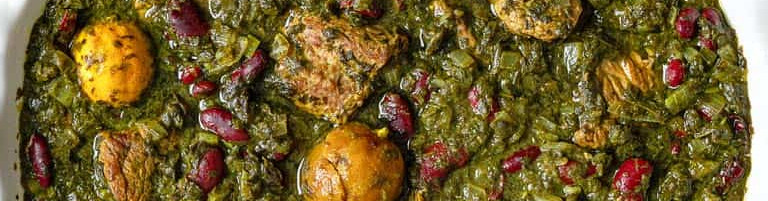
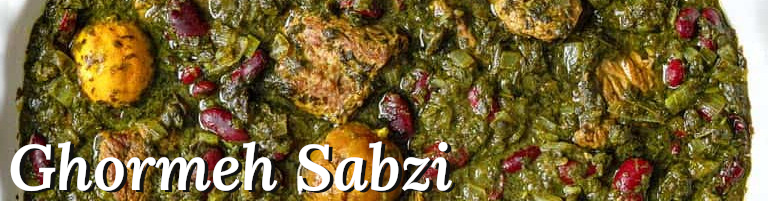
Edit recipe header image and fix typo
Add recipe title to header image and remove text title. Correct
spelling of 'Shakshuka'.

Changed region(s): [[0.0, 0.6866, 0.5938, 0.9552]]

diff --git a/recipes/tabbouleh.html b/recipes/tabbouleh.html
@@ -16,7 +16,6 @@
             <a href="../index.html"><h1>Odin's Recipes</h1></a>
         </div>
         <div class="window">
-            <h2>Tabbouleh</h2>
             <img src="Tabbouleh_wide.jpg" alt="A middle eastern dish, tabbouleh, seen from above." width="768" height="201">
             <br>
             <h3>Description</h3>
@@ -43,7 +42,7 @@
             </ol>
             <img src="Tabbouleh.jpg" alt="A middle eastern dish, tabbouleh, seen from above." width="768" height="768">
             <ul id="menu">
-                <li><a href="shaksuka.html">Shaksuka</a></li>
+                <li><a href="shakshuka.html">Shakshuka</a></li>
                 <li><a href="ghormeh-sabzi.html">Ghormeh-Sabzi</a></li>
                 <li><a href="tabbouleh.html">Tabbouleh</a></li>
             </ul>

diff --git a/recipes/ghormeh-sabzi.html b/recipes/ghormeh-sabzi.html
@@ -16,7 +16,6 @@
             <a href="../index.html"><h1>Odin's Recipes</h1></a>
         </div>
         <div class="window">
-            <h2>Ghormeh Sabzi</h2>
             <img src="Ghormeh-Sabzi_wide.jpg" alt="A middle eastern dish, ghormeh sabzi, seen from above.">
             <br>
             <h3>Description</h3>
@@ -51,7 +50,7 @@
             </ol>
             <img src="Ghormeh-Sabzi.jpg" alt="A middle eastern dish, ghormeh sabzi, seen from above." width="768" height="768">
             <ul id="menu">
-                <li><a href="shaksuka.html">Shaksuka</a></li>
+                <li><a href="shakshuka.html">Shakshuka</a></li>
                 <li><a href="ghormeh-sabzi.html">Ghormeh-Sabzi</a></li>
                 <li><a href="tabbouleh.html">Tabbouleh</a></li>
             </ul>

diff --git a/recipes/shakshuka.html b/recipes/shakshuka.html
@@ -16,7 +16,6 @@
             <a href="../index.html"><h1>Odin's Recipes</h1></a>
         </div>
         <div class="window">
-            <h2>Shakshuka</h2>
             <img src="Shakshuka_wide.jpg" alt="A middle eastern dish, shakshuka, seen from above.">
             <br>
             <h3>Description</h3>
@@ -44,7 +43,7 @@
             </ol>
             <img src="Shakshuka.jpg" alt="A middle eastern dish, shakshuka, seen from above." width="768" height="768">
             <ul id="menu">
-                <li><a href="shaksuka.html">Shaksuka</a></li>
+                <li><a href="shakshuka.html">Shakshuka</a></li>
                 <li><a href="ghormeh-sabzi.html">Ghormeh-Sabzi</a></li>
                 <li><a href="tabbouleh.html">Tabbouleh</a></li>
             </ul>

diff --git a/index.html b/index.html
@@ -17,7 +17,7 @@
         <div class="window">
             <br>
             <ul id="menu">
-                <li><a href="recipes/shaksuka.html">Shaksuka</a></li>
+                <li><a href="recipes/shakshuka.html">Shakshuka</a></li>
                 <li><a href="recipes/ghormeh-sabzi.html">Ghormeh-Sabzi</a></li>
                 <li><a href="recipes/tabbouleh.html">Tabbouleh</a></li>
             </ul>

diff --git a/styles.css b/styles.css
@@ -49,12 +49,6 @@ h1 {
     font-size: 80px;
 }
 
-h2 {
-    margin-bottom: -4px;
-    font-weight: 600;
-    font-style: italic;
-}
-
 h3 {
     margin-bottom: -16px;
     font-weight: 600;

diff --git a/README.md b/README.md
@@ -1,2 +1,6 @@
-A small collection of recipes - all of which I have not tested nor intend to test. 
-But trust me, it's good stuff.
+#### Odin's Recipes  
+A small collection of recipes - all of which I have not tested nor intend to test.  
+  
+But trust me, it's good stuff.  
+  
+For educational purposes only, copy and images not created by me.
